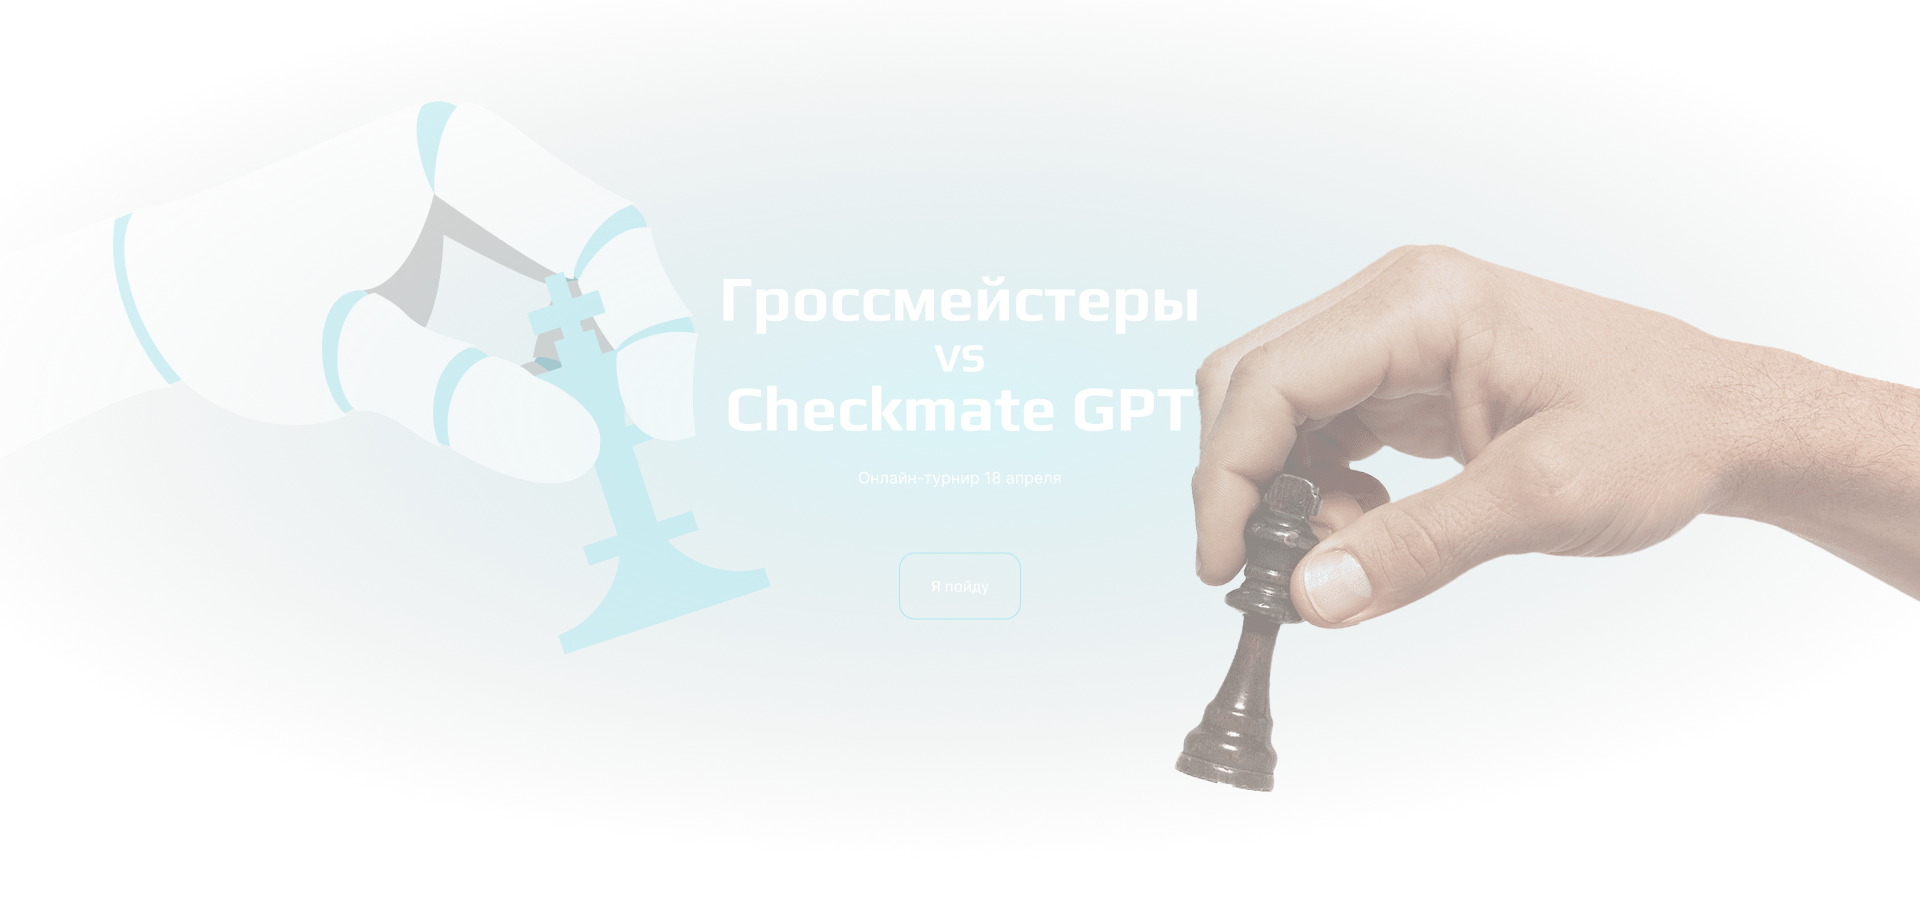
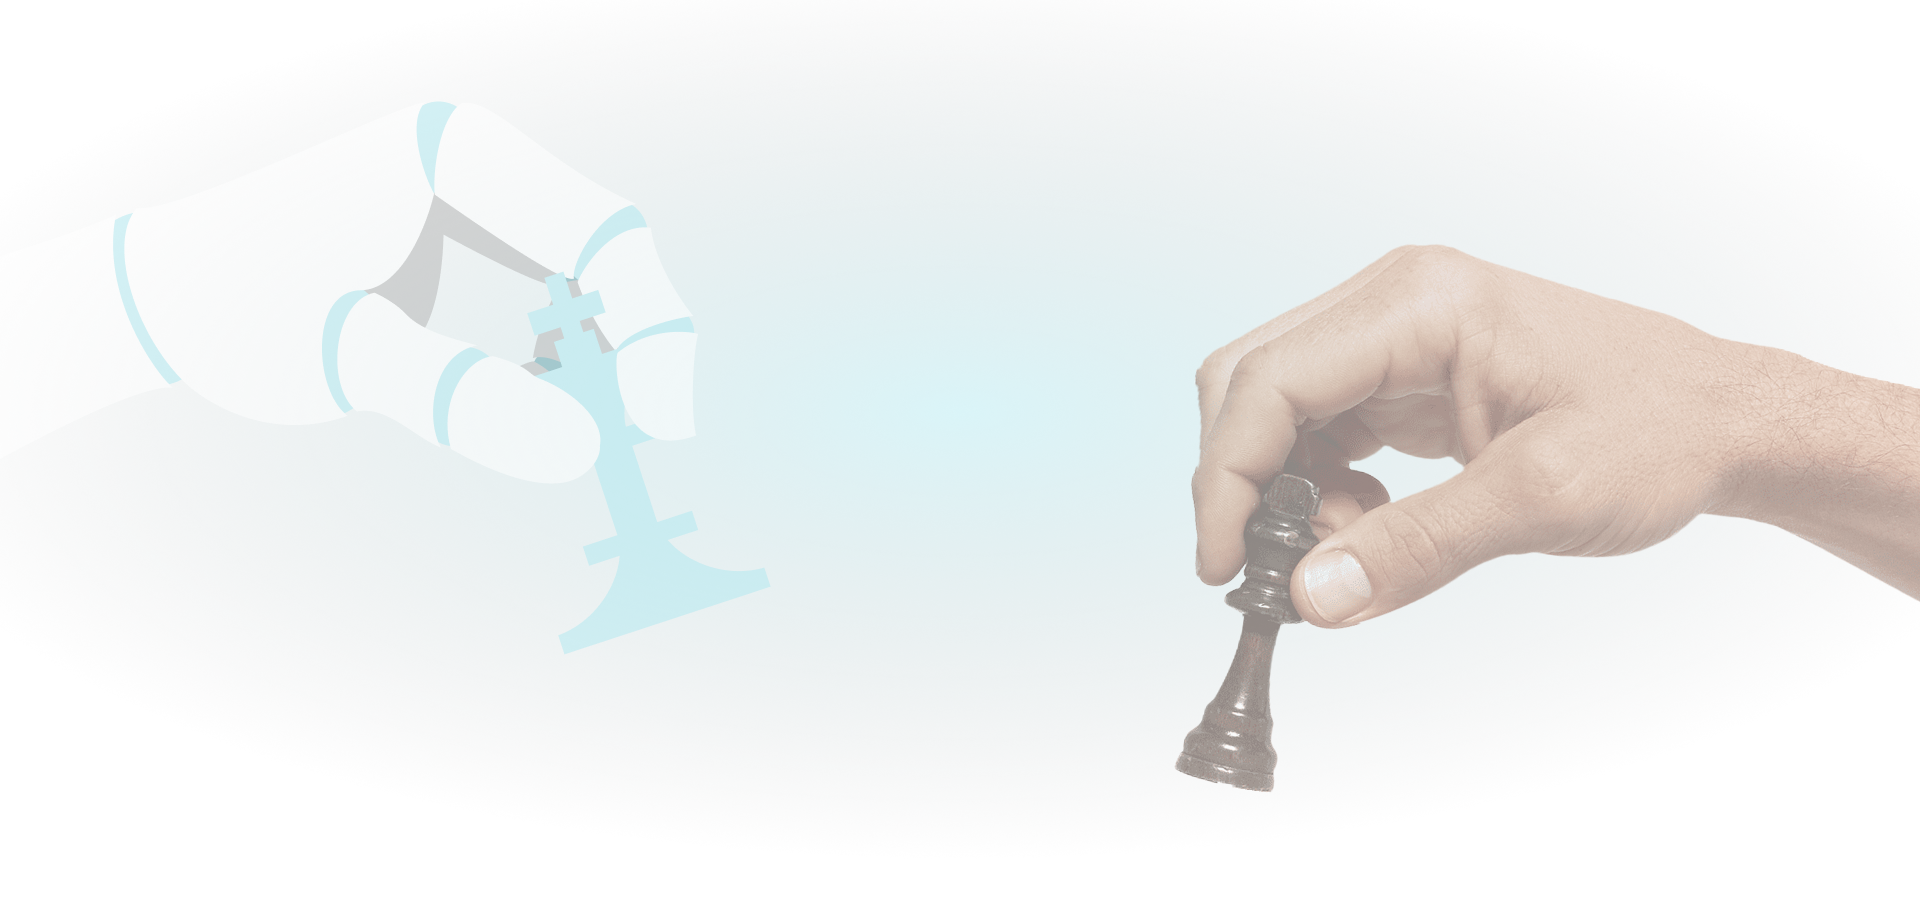
finished section hero

Changed region(s): [[0.375, 0.3101, 0.625, 0.4031], [0.375, 0.4341, 0.625, 0.4961]]

diff --git a/build/main.css b/build/main.css
@@ -1,4 +1,4 @@
-@import url('https://fonts.googleapis.com/css2?family=Play:wght@400;700&display=swap');
+@import url('https://fonts.googleapis.com/css2?family=Inter:ital,opsz,wght@0,14..32,100..900;1,14..32,100..900&family=Play:wght@400;700&display=swap');
 
 :root {
   --black-color: #000000;
@@ -46,6 +46,17 @@ li {
     margin: 0 auto;
 }
 
+.button{
+    background-color: transparent;
+    border: 1px solid var(--primary-color);
+    border-radius: 16px;
+    font-weight: 400;
+    font-size: 16px;
+    line-height: 100%;
+    padding: 24px 32px;
+    cursor: pointer;
+}
+
 /* all clapm functions from 1840px to 360px */
 
 /* ============================================================================ */
@@ -53,8 +64,12 @@ li {
 /* HEADER */
 
 .header{
+    position: fixed;
+    top: 0;
+    left: 0;
     width: 100%;
     height: clamp(4rem, 2.7382rem + 5.6081vw, 9.1875rem); /* 147px > 64px */
+    background-color: var(--black-color);
 }
 
 .header__container{
@@ -97,6 +112,83 @@ li {
     height: 17px;
 }
 
+.burger-menu{
+    background-color: var(--black-color);
+    width: 100%;
+    height: 100%;
+    position: fixed;
+    transform: translateX(100%);
+    transition: transform .3s ease;
+    display: flex;
+    align-items: center;
+    padding: 40px;
+}
+
+.burger-menu--active{
+    transform: translateX(0%);
+}
+
+.burger-menu__nav{
+    width: 100%;
+    height: 100%;
+    flex-direction: column;
+    align-items: center;
+    justify-content: flex-start;
+}
+
+.burger-menu__nav-item:not(:last-child){
+    margin-right: 0px;
+    margin-bottom: 20px;
+}
+
+/* ============================================================================ */
+
+/* HERO */
+
+.hero{
+    height: clamp(40rem, 36.3514rem + 16.2162vw, 55rem); /* 880px > 640px */
+    background-image: url(./images/hero.png);
+    background-repeat: no-repeat;
+    background-position: center center;
+    background-size: cover;
+    margin-top: clamp(4rem, 2.7382rem + 5.6081vw, 9.1875rem); /* 147px > 64px */
+}
+
+.hero__conteiner{
+    height: 100%;
+    display: flex;
+    flex-direction: column;
+    align-items: center;
+    justify-content: center;
+}
+
+.hero__heading, .hero__heading--special{
+    font-weight: 700;
+    font-size: clamp(2rem, 1.5135rem + 2.1622vw, 4rem); /* 62px > 32px */
+    line-height: 100%;
+}
+
+.hero__heading--special{
+    font-size: clamp(1.25rem, 0.9459rem + 1.3514vw, 2.5rem); /* 40px > 20px */
+    margin-top: 6px;
+}
+
+.hero__description{
+    font-family: "Inter", sans-serif;
+    font-weight: 400;
+    font-size: 16px;
+    line-height: 100%;
+    margin-bottom: 65px;
+}
+
+.hero__heading-wrapper{
+    display: flex;
+    flex-direction: column;
+    align-items: center;
+    justify-content: center;
+    margin-bottom: 24px;
+}
+
 /* ============================================================================ */
 
 /* MEDIA QUERIES */
@@ -108,5 +200,8 @@ li {
     .burger{
         display: block;
     }
+    .hero{
+        background-image: url(./images/hero-mobile.png);
+    }
 }   
[2 lines of base64/hex data omitted]

diff --git a/src/styles/styles.css b/src/styles/styles.css
@@ -1,4 +1,4 @@
-@import url('https://fonts.googleapis.com/css2?family=Play:wght@400;700&display=swap');
+@import url('https://fonts.googleapis.com/css2?family=Inter:ital,opsz,wght@0,14..32,100..900;1,14..32,100..900&family=Play:wght@400;700&display=swap');
 
 :root {
   --black-color: #000000;
@@ -46,6 +46,17 @@ li {
     margin: 0 auto;
 }
 
+.button{
+    background-color: transparent;
+    border: 1px solid var(--primary-color);
+    border-radius: 16px;
+    font-weight: 400;
+    font-size: 16px;
+    line-height: 100%;
+    padding: 24px 32px;
+    cursor: pointer;
+}
+
 /* all clapm functions from 1840px to 360px */
 
 /* ============================================================================ */
@@ -53,8 +64,12 @@ li {
 /* HEADER */
 
 .header{
+    position: fixed;
+    top: 0;
+    left: 0;
     width: 100%;
     height: clamp(4rem, 2.7382rem + 5.6081vw, 9.1875rem); /* 147px > 64px */
+    background-color: var(--black-color);
 }
 
 .header__container{
@@ -97,6 +112,83 @@ li {
     height: 17px;
 }
 
+.burger-menu{
+    background-color: var(--black-color);
+    width: 100%;
+    height: 100%;
+    position: fixed;
+    transform: translateX(100%);
+    transition: transform .3s ease;
+    display: flex;
+    align-items: center;
+    padding: 40px;
+}
+
+.burger-menu--active{
+    transform: translateX(0%);
+}
+
+.burger-menu__nav{
+    width: 100%;
+    height: 100%;
+    flex-direction: column;
+    align-items: center;
+    justify-content: flex-start;
+}
+
+.burger-menu__nav-item:not(:last-child){
+    margin-right: 0px;
+    margin-bottom: 20px;
+}
+
+/* ============================================================================ */
+
+/* HERO */
+
+.hero{
+    height: clamp(40rem, 36.3514rem + 16.2162vw, 55rem); /* 880px > 640px */
+    background-image: url(./images/hero.png);
+    background-repeat: no-repeat;
+    background-position: center center;
+    background-size: cover;
+    margin-top: clamp(4rem, 2.7382rem + 5.6081vw, 9.1875rem); /* 147px > 64px */
+}
+
+.hero__conteiner{
+    height: 100%;
+    display: flex;
+    flex-direction: column;
+    align-items: center;
+    justify-content: center;
+}
+
+.hero__heading, .hero__heading--special{
+    font-weight: 700;
+    font-size: clamp(2rem, 1.5135rem + 2.1622vw, 4rem); /* 62px > 32px */
+    line-height: 100%;
+}
+
+.hero__heading--special{
+    font-size: clamp(1.25rem, 0.9459rem + 1.3514vw, 2.5rem); /* 40px > 20px */
+    margin-top: 6px;
+}
+
+.hero__description{
+    font-family: "Inter", sans-serif;
+    font-weight: 400;
+    font-size: 16px;
+    line-height: 100%;
+    margin-bottom: 65px;
+}
+
+.hero__heading-wrapper{
+    display: flex;
+    flex-direction: column;
+    align-items: center;
+    justify-content: center;
+    margin-bottom: 24px;
+}
+
 /* ============================================================================ */
 
 /* MEDIA QUERIES */
@@ -107,5 +199,8 @@ li {
     }
     .burger{
         display: block;
+    }
+    .hero{
+        background-image: url(./images/hero-mobile.png);
     }
 }   

diff --git a/build/index.html b/build/index.html
@@ -23,7 +23,7 @@
                     <a href="#" class="nav-item-link header__nav-item-link">Розыгрыш</a>
                 </li>
             </ul>
-            <button class="burger">
+            <button id="burger" class="burger">
                 <svg class="burger-button">
                     <use xlink:href="#burger-button"></use>
                 </svg>
@@ -31,8 +31,32 @@
         </div>
     </header>
 
-    <div class="burger-menu"></div>
-    
+    <div id="burger-menu" class="burger-menu">
+        <ul class="nav burger-menu__nav">
+            <li class="nav-item burger-menu__nav-item">
+                <a href="#" class="nav-item-link burger-menu__nav-item-link">Участники</a>
+            </li>
+            <li class="nav-item burger-menu__nav-item">
+                <a href="#" class="nav-item-link burger-menu__nav-item-link">Турнирная таблица</a>
+            </li>
+            <li class="nav-item burger-menu__nav-item">
+                <a href="#" class="nav-item-link burger-menu__nav-item-link">Розыгрыш</a>
+            </li>
+        </ul>
+    </div>
+
+    <section class="hero">
+        <div class="container hero__conteiner">
+            <div class="hero__heading-wrapper">
+                <h1 class="hero__heading">Гроссмейстеры</h1>
+                <h1 class="hero__heading hero__heading--special">VS</h1>
+                <h1 class="hero__heading">Checkmate GPT</h1>
+            </div>
+            <p class="hero__description">Онлайн-турнир 18 апреля</p>
+            <button class="button hero__button">Я пойду</button>
+        </div>
+    </section>
+
     <script defer src="app.js" type="text/javascript"></script>
 </body>
 </html>

diff --git a/src/index.html b/src/index.html
@@ -23,7 +23,7 @@
                     <a href="#" class="nav-item-link header__nav-item-link">Розыгрыш</a>
                 </li>
             </ul>
-            <button class="burger">
+            <button id="burger" class="burger">
                 <svg class="burger-button">
                     <use xlink:href="#burger-button"></use>
                 </svg>
@@ -31,8 +31,32 @@
         </div>
     </header>
 
-    <div class="burger-menu"></div>
-    
+    <div id="burger-menu" class="burger-menu">
+        <ul class="nav burger-menu__nav">
+            <li class="nav-item burger-menu__nav-item">
+                <a href="#" class="nav-item-link burger-menu__nav-item-link">Участники</a>
+            </li>
+            <li class="nav-item burger-menu__nav-item">
+                <a href="#" class="nav-item-link burger-menu__nav-item-link">Турнирная таблица</a>
+            </li>
+            <li class="nav-item burger-menu__nav-item">
+                <a href="#" class="nav-item-link burger-menu__nav-item-link">Розыгрыш</a>
+            </li>
+        </ul>
+    </div>
+
+    <section class="hero">
+        <div class="container hero__conteiner">
+            <div class="hero__heading-wrapper">
+                <h1 class="hero__heading">Гроссмейстеры</h1>
+                <h1 class="hero__heading hero__heading--special">VS</h1>
+                <h1 class="hero__heading">Checkmate GPT</h1>
+            </div>
+            <p class="hero__description">Онлайн-турнир 18 апреля</p>
+            <button class="button hero__button">Я пойду</button>
+        </div>
+    </section>
+
     <script defer src="app.js" type="text/javascript"></script>
 </body>
 </html>

diff --git a/build/app.js b/build/app.js
@@ -1,2 +1,14 @@
+const burger = document.getElementById("burger");
+const burgerMenu = document.getElementById("burger-menu");
+const navLinks = document.querySelectorAll(".nav-item-link");
 
[1 lines of base64/hex data omitted]
+burger.addEventListener('click', () =>{
+    burgerMenu.classList.toggle("burger-menu--active");
+});
+
+navLinks.forEach(link => {
+    link.addEventListener('click', () =>{
+        burgerMenu.classList.remove("burger-menu--active");
+    });
+})
[1 lines of base64/hex data omitted]

diff --git a/src/js/main.js b/src/js/main.js
@@ -1,0 +1,13 @@
+const burger = document.getElementById("burger");
+const burgerMenu = document.getElementById("burger-menu");
+const navLinks = document.querySelectorAll(".nav-item-link");
+
+burger.addEventListener('click', () =>{
+    burgerMenu.classList.toggle("burger-menu--active");
+});
+
+navLinks.forEach(link => {
+    link.addEventListener('click', () =>{
+        burgerMenu.classList.remove("burger-menu--active");
+    });
+})
